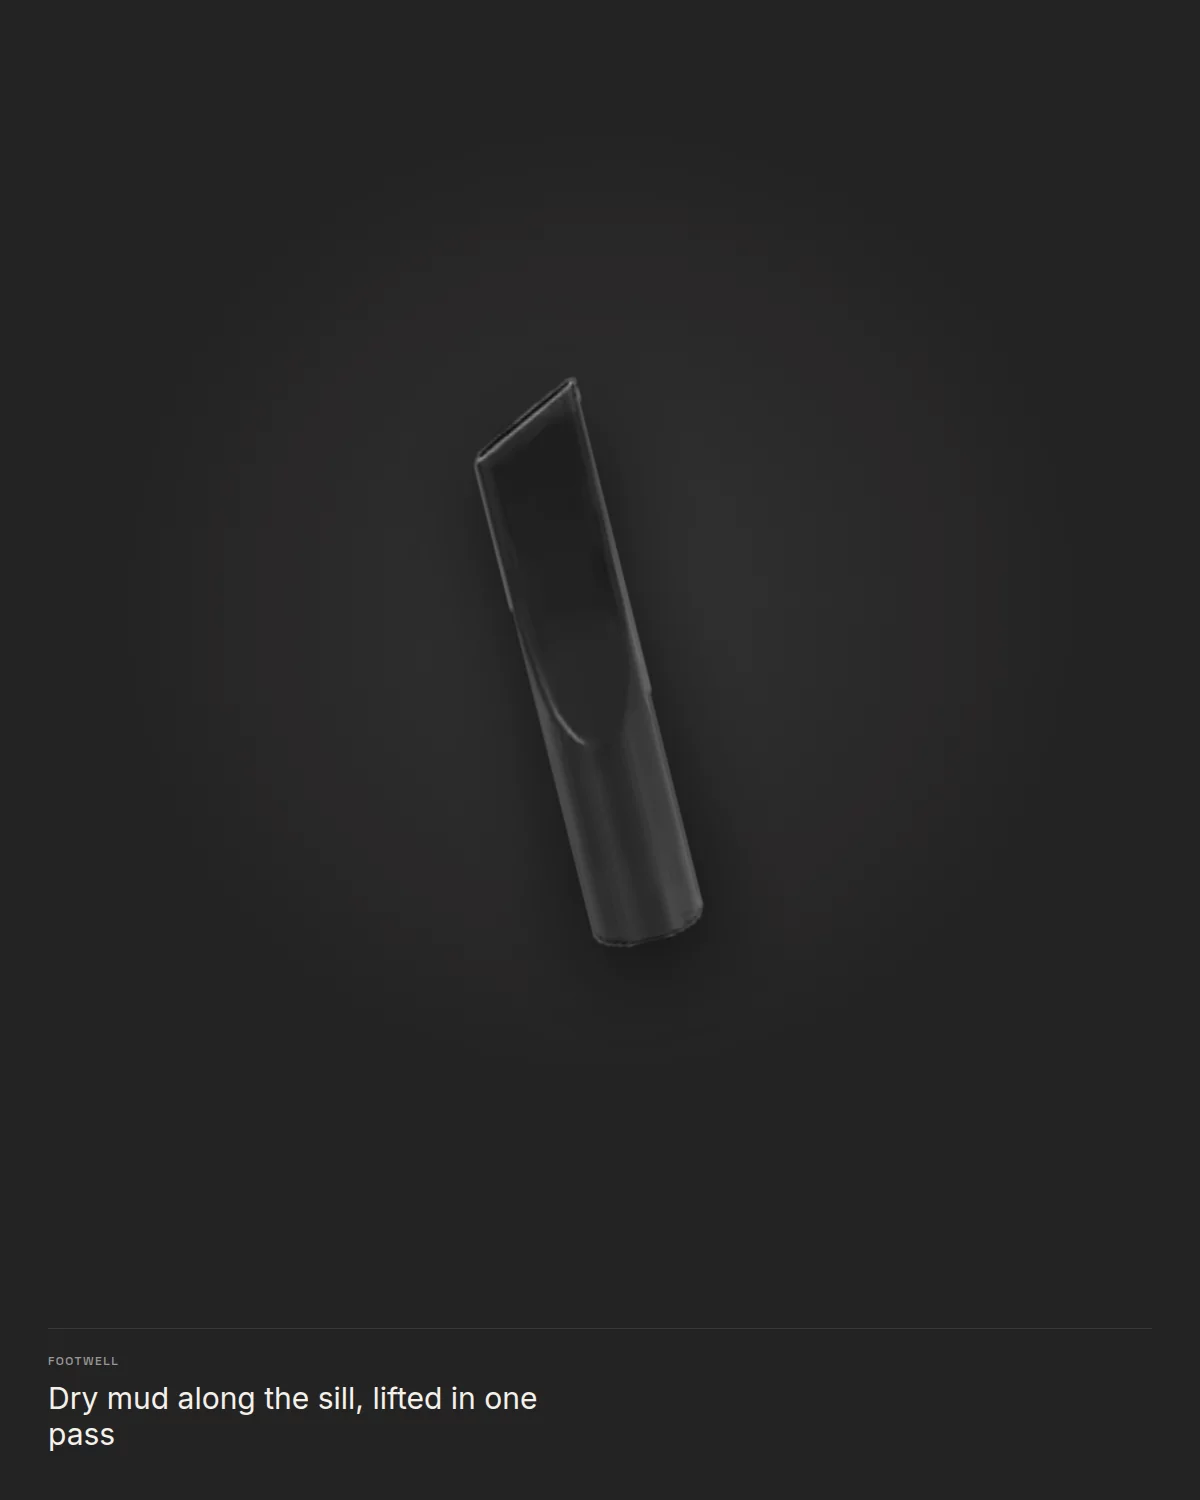
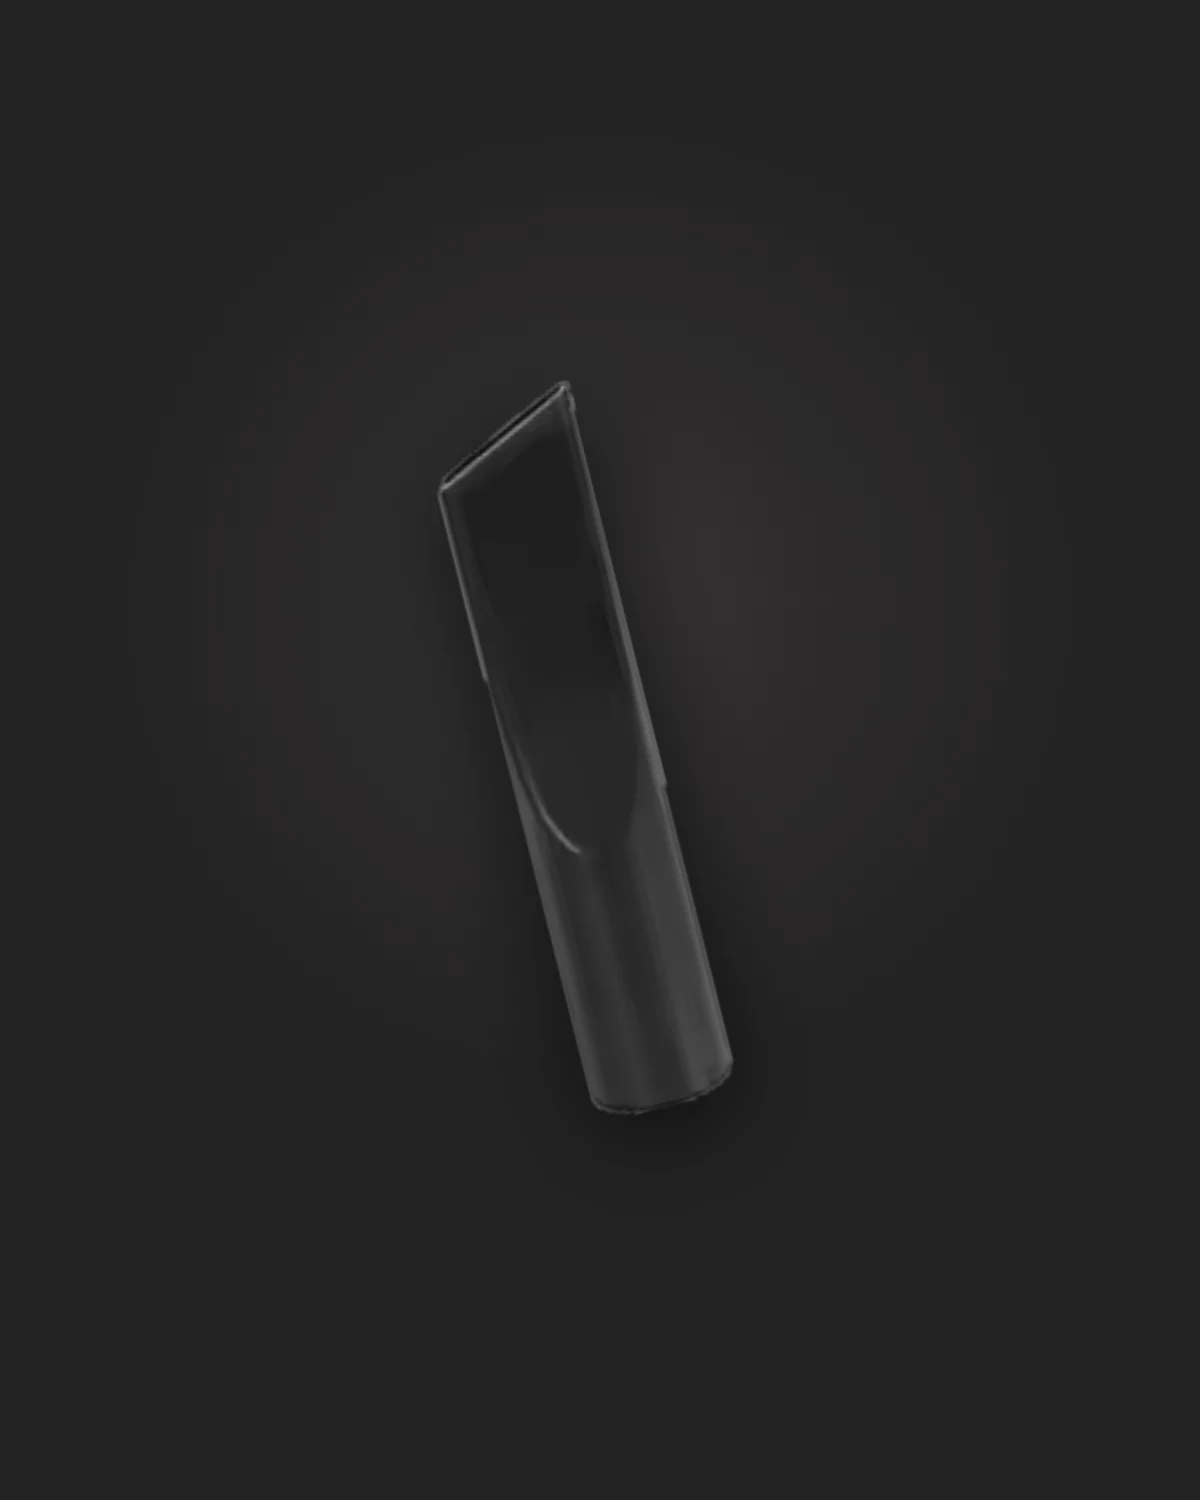
Take the captions back out of the use-case tiles
Each tile had its label and line rendered into the image, and the section
prints the same label and line underneath every figure, so the page
showed both. Reads as a mistake rather than emphasis.

The text is now the page's job alone and the tile is only the
photograph, which also gives the attachment back the space the caption
block was holding: the tools are drawn about 30% larger and the files are
around 40% smaller.

Claude-Session: https://claude.ai/code/session_013XThQ2JN6DHkDEDgn9BfH5

diff --git a/deploy/usecase-source.html b/deploy/usecase-source.html
@@ -26,21 +26,18 @@
 /* th = rendered tool height in px. Native heights: part1 299, part2 318,
    part4 115, part5 178. Frames are sized around those, not the other way. */
 const S = {
-  footwell:  { w:1200, h:1500, tool:'part1.png', th:590, rot:-14, fs:30,
+  footwell:  { w:1200, h:1500, tool:'part1.png', th:760, rot:-14, fs:30,
                cap:['Footwell','Dry mud along the sill, lifted in one pass'] },
-  childseat: { w:900,  h:900,  tool:'part5.png', th:350, rot:10,  fs:24,
+  childseat: { w:900,  h:900,  tool:'part5.png', th:470, rot:10,  fs:24,
                cap:['Child seat','Crumbs out of the buckle recess and seam'] },
-  boot:      { w:1024, h:576,  tool:'part4.png', th:228, rot:-6,  fs:22,
+  boot:      { w:1024, h:576,  tool:'part4.png', th:300, rot:-6,  fs:22,
                cap:['Boot','Sand and grit across the full boot floor'] },
-  seatrails: { w:1200, h:1600, tool:'part2.png', th:630, rot:6,   fs:30,
+  seatrails: { w:1200, h:1600, tool:'part2.png', th:820, rot:6,   fs:30,
                cap:['Seat rails','The channel a full-size head cannot reach'] },
 };
 const n = location.hash.slice(1) || 'footwell';
 const s = S[n], st = document.getElementById('stage');
 st.style.width=s.w+'px'; st.style.height=s.h+'px';
 st.innerHTML = `<div class="lift"></div>
-  <div class="frame"><img class="tool" src="${s.tool}" style="height:${s.th}px;transform:rotate(${s.rot}deg)"></div>
-  <div class="rule"></div>
-  <div class="cap"><p class="nit-label k">${s.cap[0]}</p>
-    <p class="v" style="font-size:${s.fs}px">${s.cap[1]}</p></div>`;
+  <div class="frame"><img class="tool" src="${s.tool}" style="height:${s.th}px;transform:rotate(${s.rot}deg)"></div>`;
 </script></body></html>
